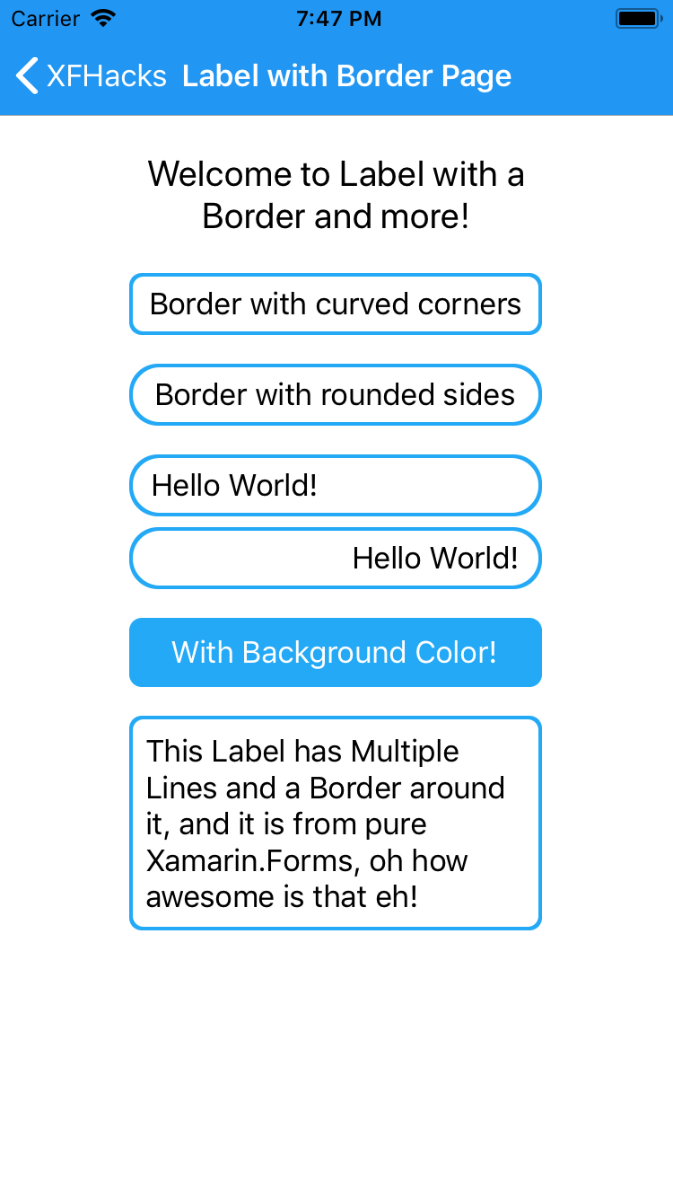
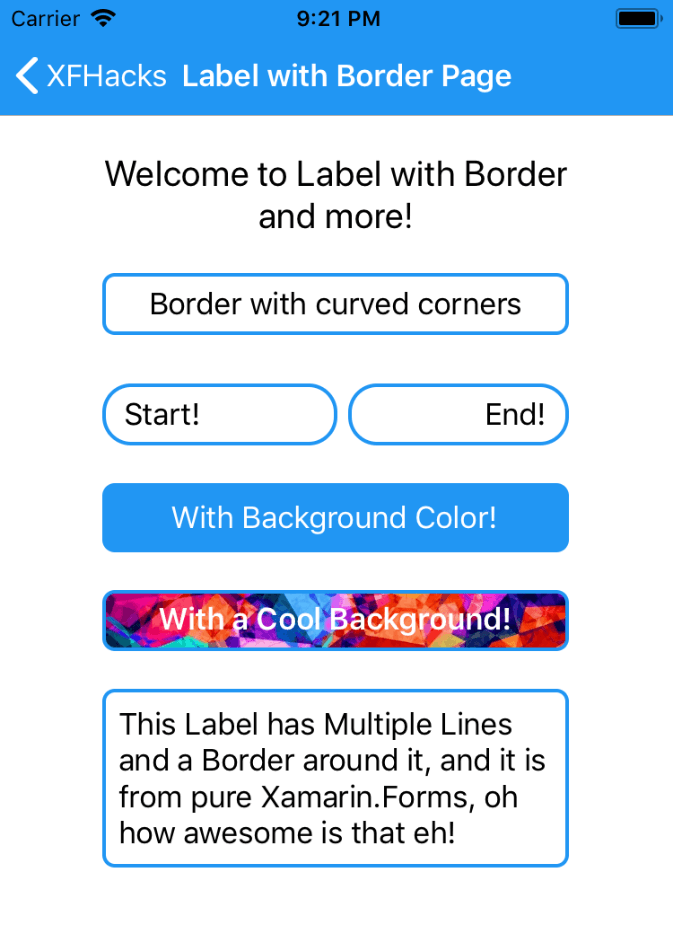
bingo

Changed region(s): [[0.0, 0.0, 1.0, 0.9216], [0.9049, 0.0, 0.9985, 0.0307], [0.1248, 0.3072, 0.156, 0.3379]]

diff --git a/XFHacks/XFHacks/XFHacks/LabelWithBorderPage.xaml b/XFHacks/XFHacks/XFHacks/LabelWithBorderPage.xaml
@@ -162,7 +162,8 @@
                         Padding="0"
                         BackgroundColor="White"
                         CornerRadius="5"
-                        HasShadow="False">
+                        HasShadow="False"
+                        IsClippedToBounds="True">
                         <Grid HeightRequest="30" IsClippedToBounds="True">
                             <Image Aspect="AspectFill" Source="{extensions:ImageResource XFHacks.Resources.abstractbackground.jpg}" />
                             <Label

diff --git a/XFHacks/XFHacks/XFHacks.Android/Resources/Resource.designer.cs b/XFHacks/XFHacks/XFHacks.Android/Resources/Resource.designer.cs
@@ -2192,8 +2192,26 @@ namespace XFHacks.Droid
 			// aapt resource value: 0x7f020053
 			public const int avd_hide_password = 2130837587;
 			
+			// aapt resource value: 0x7f02010e
+			public const int avd_hide_password_1 = 2130837774;
+			
+			// aapt resource value: 0x7f02010f
+			public const int avd_hide_password_2 = 2130837775;
+			
+			// aapt resource value: 0x7f020110
+			public const int avd_hide_password_3 = 2130837776;
+			
 			// aapt resource value: 0x7f020054
 			public const int avd_show_password = 2130837588;
+			
+			// aapt resource value: 0x7f020111
+			public const int avd_show_password_1 = 2130837777;
+			
+			// aapt resource value: 0x7f020112
+			public const int avd_show_password_2 = 2130837778;
+			
+			// aapt resource value: 0x7f020113
+			public const int avd_show_password_3 = 2130837779;
 			
 			// aapt resource value: 0x7f020055
 			public const int design_bottom_navigation_item_background = 2130837589;
